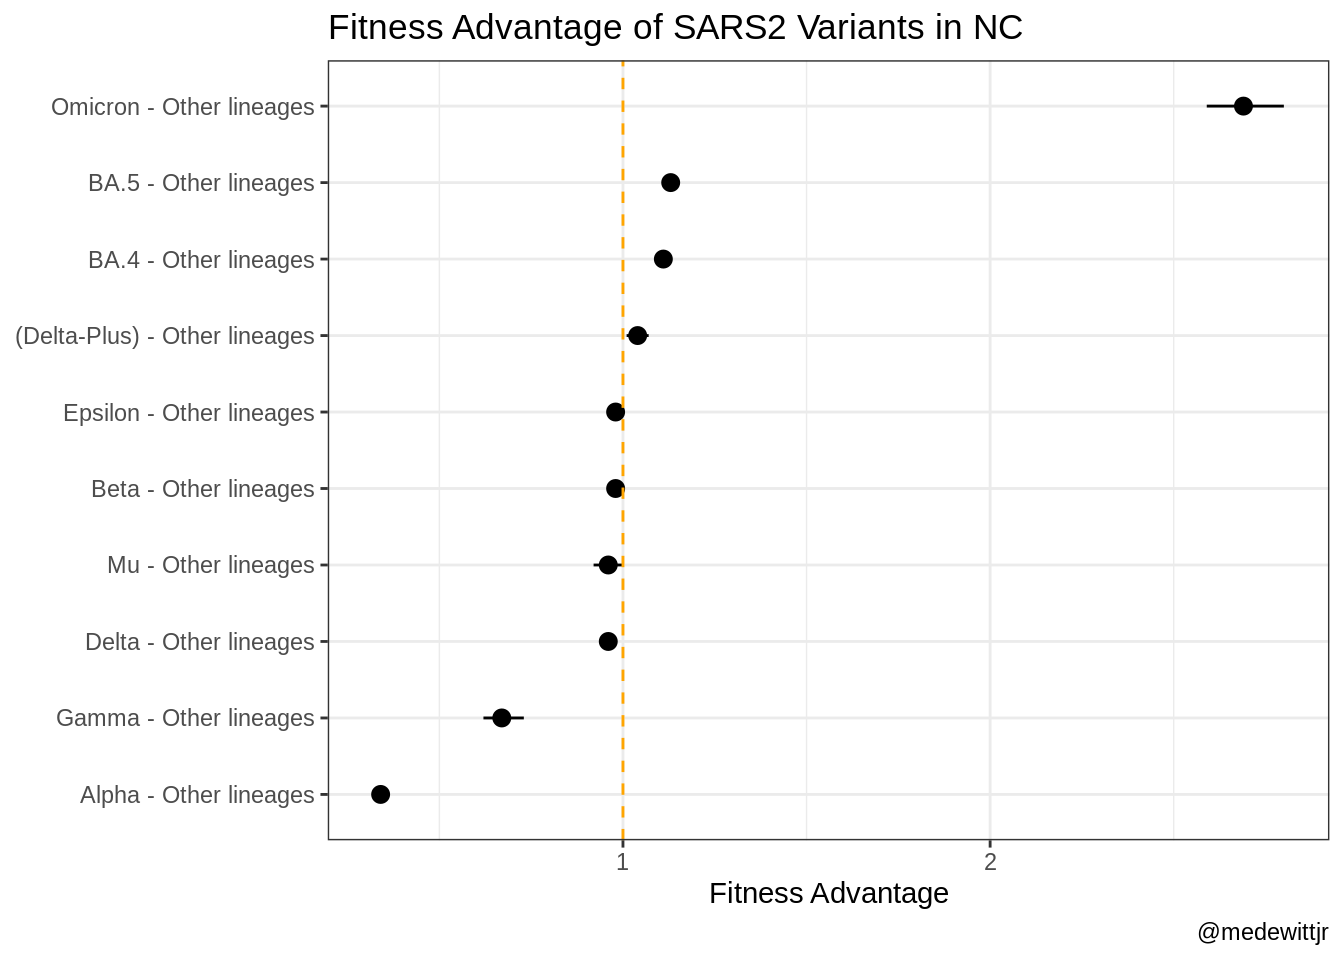
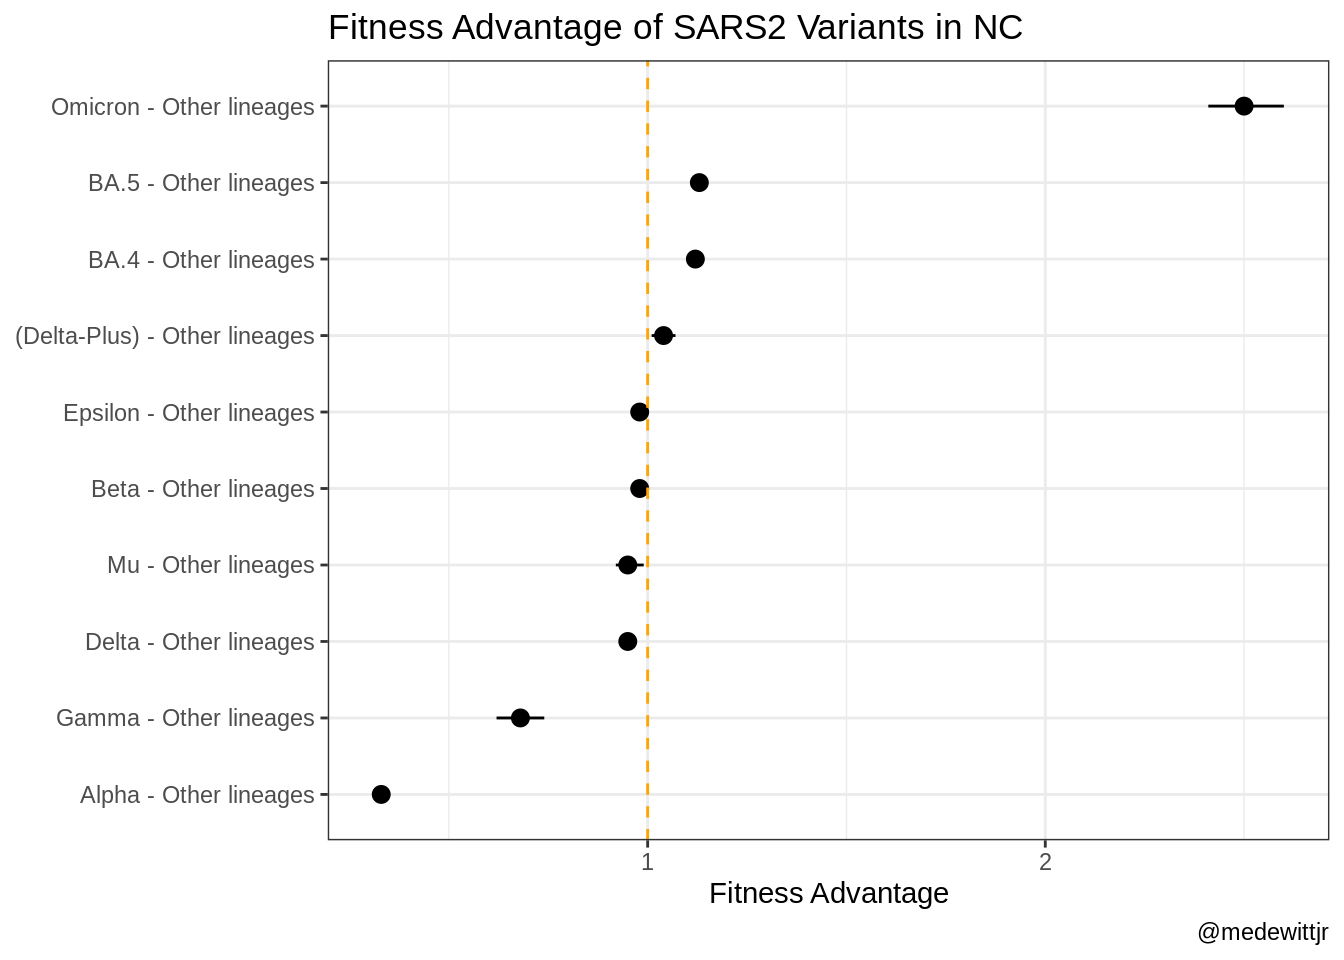
Update the latest data

diff --git a/docs/index.html b/docs/index.html
@@ -148,9 +148,9 @@ ul.task-list{list-style: none;}
 <tbody>
 <tr class="odd">
 <td style="text-align: left;">Alpha - Other lineages</td>
+<td style="text-align: right;">0.33</td>
+<td style="text-align: right;">0.31</td>
 <td style="text-align: right;">0.34</td>
-<td style="text-align: right;">0.32</td>
-<td style="text-align: right;">0.35</td>
 </tr>
 <tr class="even">
 <td style="text-align: left;">Beta - Other lineages</td>
@@ -160,9 +160,9 @@ ul.task-list{list-style: none;}
 </tr>
 <tr class="odd">
 <td style="text-align: left;">Delta - Other lineages</td>
-<td style="text-align: right;">0.96</td>
-<td style="text-align: right;">0.96</td>
-<td style="text-align: right;">0.97</td>
+<td style="text-align: right;">0.95</td>
+<td style="text-align: right;">0.94</td>
+<td style="text-align: right;">0.95</td>
 </tr>
 <tr class="even">
 <td style="text-align: left;">(Delta-Plus) - Other lineages</td>
@@ -172,9 +172,9 @@ ul.task-list{list-style: none;}
 </tr>
 <tr class="odd">
 <td style="text-align: left;">Gamma - Other lineages</td>
-<td style="text-align: right;">0.67</td>
+<td style="text-align: right;">0.68</td>
 <td style="text-align: right;">0.62</td>
-<td style="text-align: right;">0.73</td>
+<td style="text-align: right;">0.74</td>
 </tr>
 <tr class="even">
 <td style="text-align: left;">Epsilon - Other lineages</td>
@@ -184,21 +184,21 @@ ul.task-list{list-style: none;}
 </tr>
 <tr class="odd">
 <td style="text-align: left;">Mu - Other lineages</td>
-<td style="text-align: right;">0.96</td>
+<td style="text-align: right;">0.95</td>
 <td style="text-align: right;">0.92</td>
-<td style="text-align: right;">1.00</td>
+<td style="text-align: right;">0.99</td>
 </tr>
 <tr class="even">
 <td style="text-align: left;">Omicron - Other lineages</td>
-<td style="text-align: right;">2.69</td>
-<td style="text-align: right;">2.59</td>
-<td style="text-align: right;">2.80</td>
+<td style="text-align: right;">2.50</td>
+<td style="text-align: right;">2.41</td>
+<td style="text-align: right;">2.60</td>
 </tr>
 <tr class="odd">
 <td style="text-align: left;">BA.4 - Other lineages</td>
-<td style="text-align: right;">1.11</td>
-<td style="text-align: right;">1.09</td>
-<td style="text-align: right;">1.13</td>
+<td style="text-align: right;">1.12</td>
+<td style="text-align: right;">1.10</td>
+<td style="text-align: right;">1.14</td>
 </tr>
 <tr class="even">
 <td style="text-align: left;">BA.5 - Other lineages</td>
